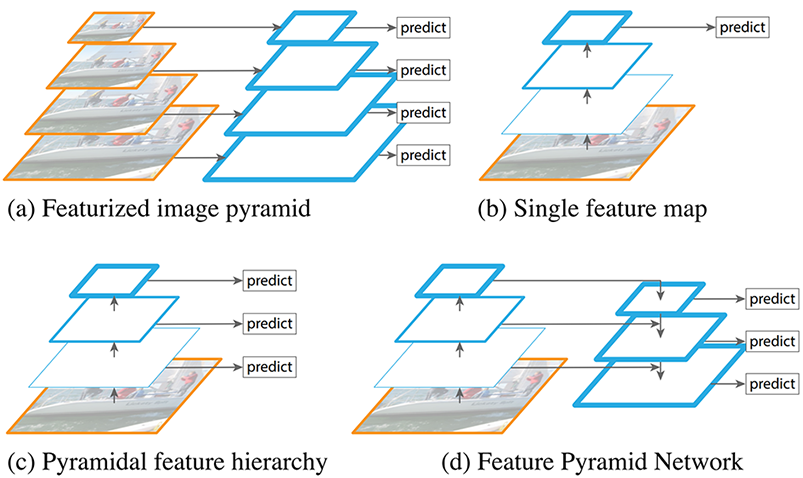
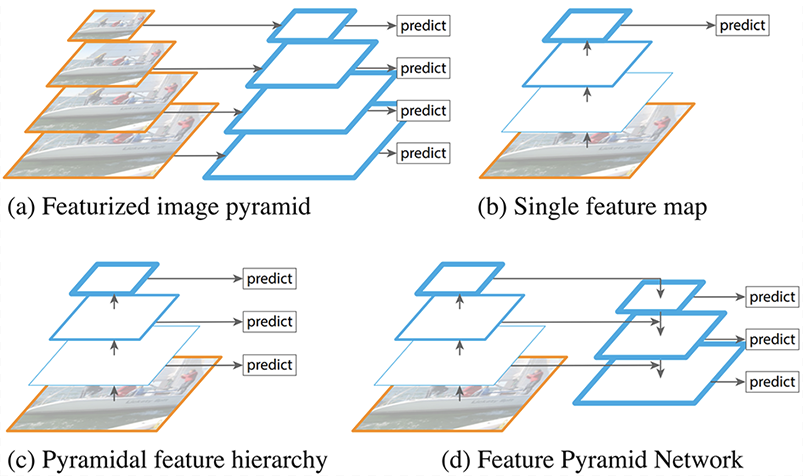
update

diff --git a/_posts/2020-07-29-YOLOv3.md b/_posts/2020-07-29-YOLOv3.md
@@ -33,10 +33,7 @@ approach better models the data.
 `
 
 #### 4. Use FPN
-<div class="gallery" data-columns="1">
-	<img src="/images/Paper/YOLOv3/FPN_paper.png">
-	<img src="/images/Paper/YOLOv3/FPN.JPG">
-</div>
+![image](/images/Paper/YOLOv3/FPN.JPG)
 
 ### Summary
 #### Output
